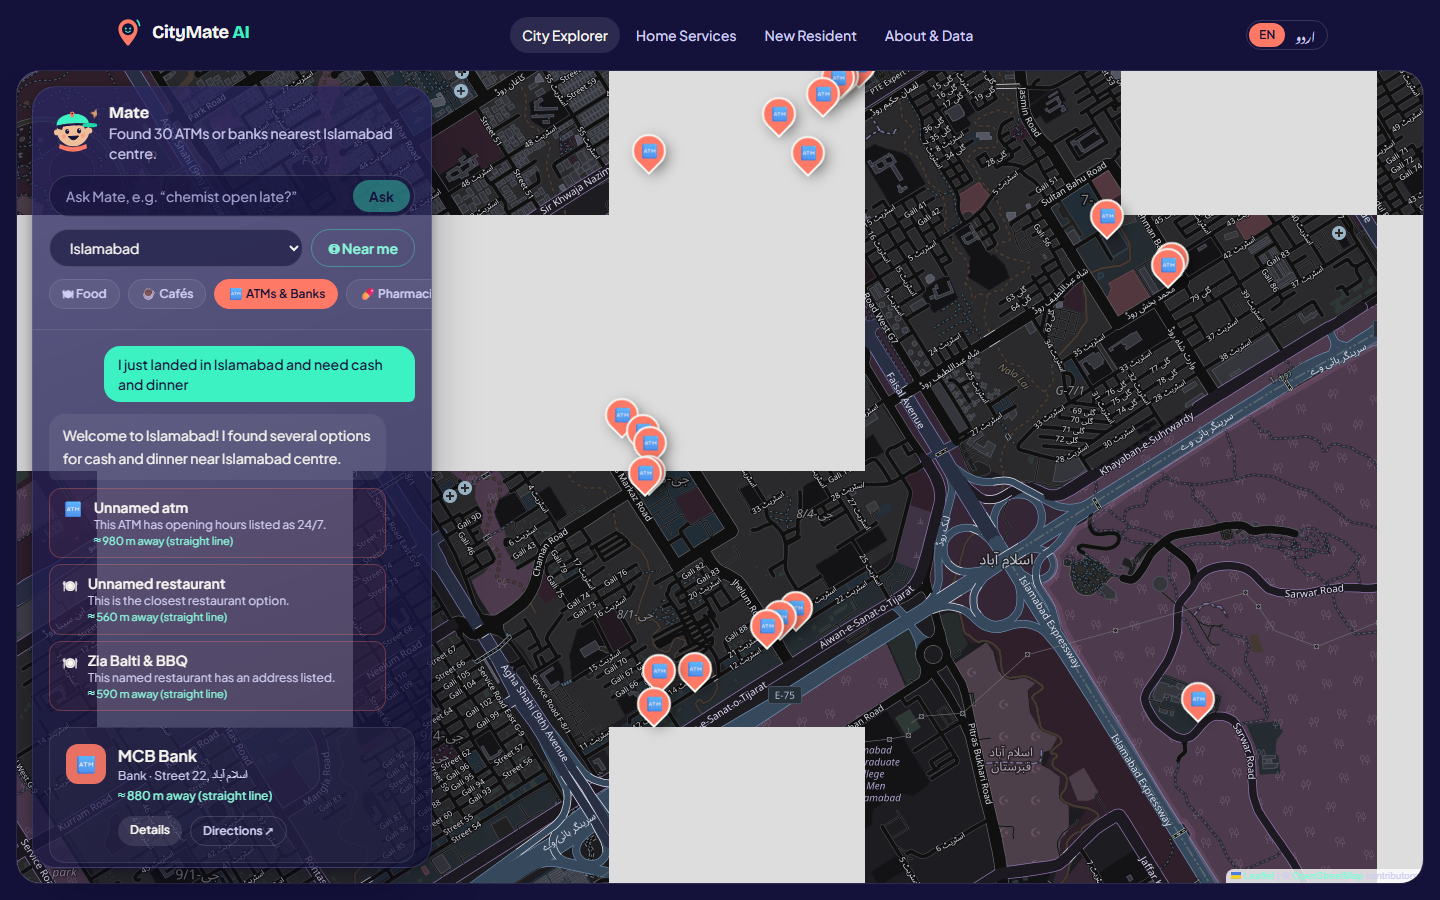
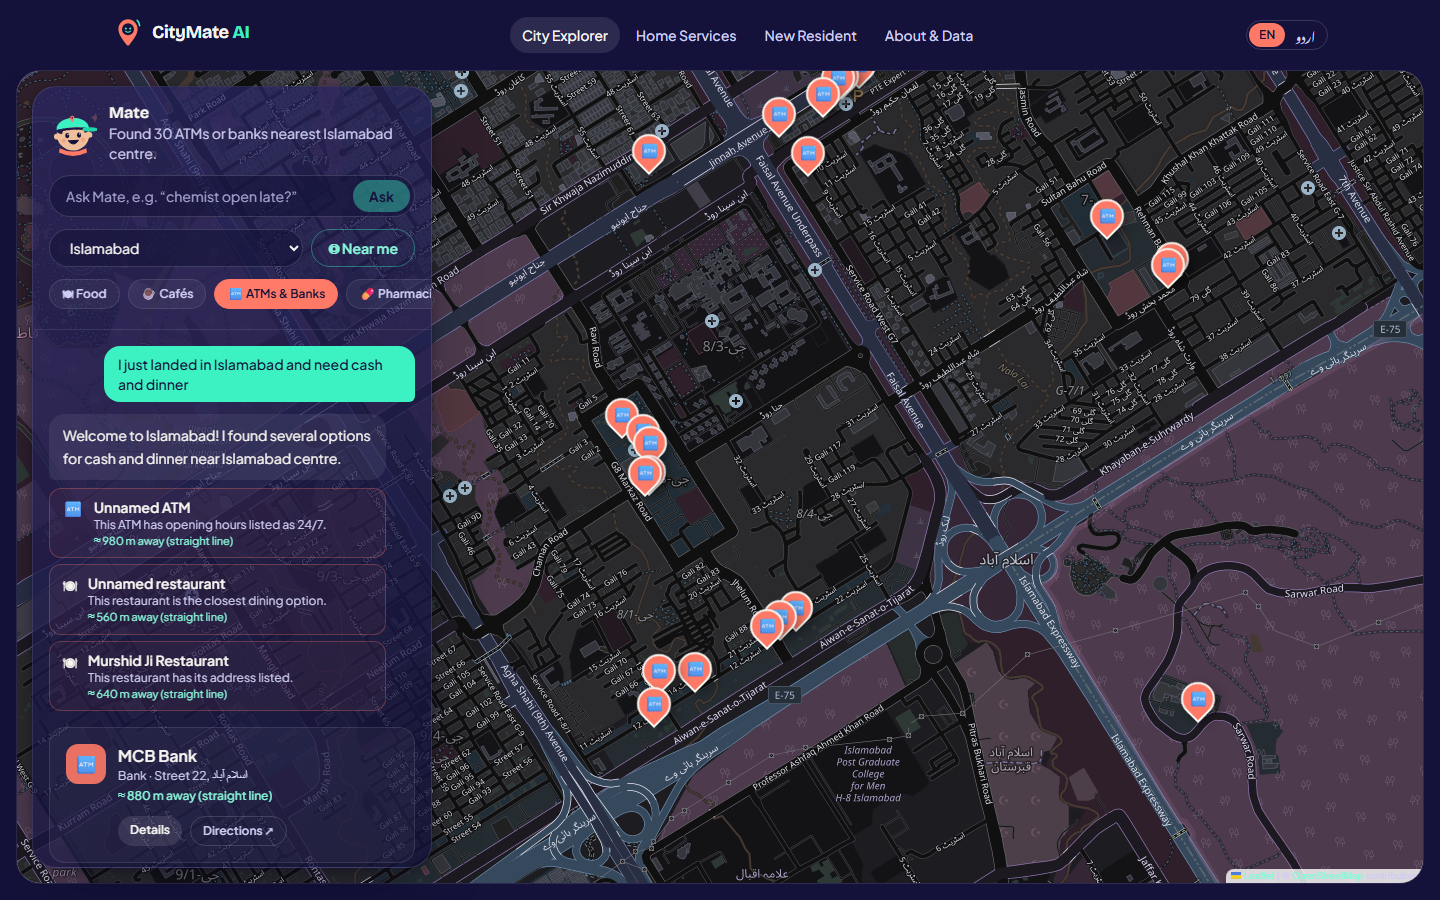
README: problem/solution, stack, setup, AI methodology, model & API usage, screenshots, team contributions

diff --git a/README.md b/README.md
@@ -1,72 +1,189 @@
 # CityMate AI
 
-**Your City. Your Needs. Your AI Companion.**
+**Your City. Your Needs. Your AI Companion.** · آپ کا شہر، آپ کی ضرورت، آپ کا ساتھی
 
-A location-aware AI companion that helps travellers and newcomers find real places and essential services in Pakistani cities (pilots: Islamabad, Rawalpindi, Kotli) using OpenStreetMap data. Non-commercial prototype.
+CityMate AI is an AI daily-life assistant for travellers, visitors and people who have just moved to a new city in Pakistan. It works out what you need, even when you describe a problem in English or Urdu, then finds real nearby places and services from open map data. It is honest about what it doesn't know.
 
-## Stack
+🌐 **Live app:** https://citymate-ai.vercel.app
+🏙 **Pilot cities:** Islamabad · Rawalpindi · Kotli (AJK)
+💸 **Cost to run:** free (Vercel Hobby, Gemini free tier, OpenStreetMap). Non-commercial prototype.
 
-Next.js 16 (App Router) · TypeScript · Tailwind CSS 4 · Motion for React · React-Leaflet · Gemini API (server-side) · OpenStreetMap / Overpass
+![CityMate AI landing page](docs/screenshots/01-landing.png)
 
-## Getting started
+---
 
-Requires Node.js 24 LTS.
+## 1. Problem statement and solution
+
+### The problem
+Arriving in an unfamiliar city, whether as a traveller, a student or a family that has just moved, raises urgent everyday questions:
+
+- *"Where's an ATM and somewhere to eat right now?"*
+- *"My kitchen tap is leaking. Who can fix it?"*
+- *"I've just moved in. Where are the pharmacy, the grocery store and a park for the kids?"*
+
+General map apps expect you to already know **what kind of place** to search for, and they rarely say when their data is missing. Newcomers in Pakistan also often think and type in **Urdu or Roman Urdu**. Listings for local tradespeople such as plumbers and electricians are sparse online, so a naive AI assistant will often **make up** businesses, phone numbers or ratings.
+
+### Our solution
+CityMate AI is a **problem-solving companion, not another map clone**:
+
+| Feature | What it does |
+|---|---|
+| 🧭 **AI City Assistant** | Describe your need in your own words (English, اردو or Roman Urdu). Mate splits it into needs ("cash **and** dinner") and shows real places on a live map. |
+| 🔧 **Home Services** | Problem-based search: "AC stopped cooling" → AC technicians. When no providers are listed, Mate says so and offers **clearly labelled alternatives** (e.g. hardware shops that sell parts), never presented as providers. |
+| 🏡 **New Resident Assistant** | A welcome flow, essentials grouped by *Home setup / Daily essentials / Family*, and a settling-in checklist saved on the device with no account. |
+| 💬 **Ask Mate chatbot** | A floating quick-answer assistant on every page. |
+| 🇵🇰 **Urdu mode** | English by default; one tap switches the experience to Urdu (Nastaliq, right-to-left). Mate replies in the user's language. |
+
+**Core principle: grounded honesty.** Every place shown comes from OpenStreetMap through our own backend. The AI never writes place names, phone numbers, ratings or prices. Missing data is reported as missing, and distances are labelled as approximate straight lines.
+
+---
+
+## 2. Product screenshots
+
+| | |
+|---|---|
+| ![AI chat on the City Explorer](docs/screenshots/03-explorer-ai-chat.png) **AI City Assistant:** one message, two needs (cash and dinner), real places on the map. | ![Home Services with alternatives](docs/screenshots/04-home-services-alternatives.png) **Home Services:** no plumbers are listed, so hardware shops are shown, labelled *"not a confirmed provider"*. |
+| ![New Resident checklist](docs/screenshots/05-new-resident-checklist.png) **New Resident checklist:** progress saved on the device, "Find →" on every task. | ![Urdu mode](docs/screenshots/06-urdu-mode.png) **Urdu mode:** the full landing experience in Urdu Nastaliq. |
+| ![Story landing](docs/screenshots/02-story.png) **Story-driven landing:** *Sara's first night* explains the product chapter by chapter. | <img src="docs/screenshots/07-mobile-explorer.png" alt="Mobile explorer" width="260"> <img src="docs/screenshots/08-mobile-ask-urdu.png" alt="Mobile Urdu ask" width="260"> **Mobile:** map with bottom sheet; asking Mate in Urdu. |
+
+---
+
+## 3. Technology stack
+
+| Layer | Technology |
+|---|---|
+| Framework | **Next.js 16** (App Router, Route Handlers, Turbopack), **React 19**, **TypeScript** |
+| Styling & motion | **Tailwind CSS 4** ("Night City, Warm Guide" design tokens), **Motion for React**, CSS/SVG animation |
+| Maps | **Leaflet** + **React-Leaflet**, OpenStreetMap tiles (night-themed via CSS) |
+| AI | **Google Gemini API**, model `gemini-3.5-flash-lite`, via the official `@google/genai` SDK (server-side only) |
+| Location data | **OpenStreetMap** via the **Overpass API** + pre-built, attributed **City Packs** (JSON snapshots) |
+| Validation | **Zod** (API inputs and AI structured outputs) |
+| Fonts | Bricolage Grotesque, Plus Jakarta Sans, Noto Nastaliq Urdu (self-hosted via `next/font`) |
+| Testing | **Vitest** (60 unit and API tests) + `scripts/smoke.mjs` end-to-end smoke test |
+| Hosting | **Vercel Hobby** (free). No database and no paid services. |
+
+---
+
+## 4. Setup and installation
+
+**Prerequisites:** Node.js **24 LTS**, npm, Git. A free Gemini API key is optional; without it the app runs in AI-off mode.
 
 ```bash
+git clone https://github.com/MuhammadQutab/citymate-ai.git
+cd citymate-ai
 npm install
-cp .env.example .env.local   # add GEMINI_API_KEY (optional; app runs AI-off without it)
-npm run dev                  # http://localhost:3000
+cp .env.example .env.local        # then set GEMINI_API_KEY (free: https://aistudio.google.com/apikey)
+npm run dev                       # http://localhost:3000
 ```
 
 | Script | Purpose |
-| --- | --- |
+|---|---|
 | `npm run dev` | Development server |
-| `npm run build` | Production build |
-| `npm test` | Unit tests (Vitest) |
-| `npm run lint` | ESLint |
-| `npm run typecheck` | Route type generation + `tsc` |
+| `npm run build` / `npm start` | Production build / serve |
+| `npm test` | Unit and API tests (Vitest; no network needed) |
+| `npm run lint` · `npm run typecheck` | ESLint · TypeScript |
+| `npm run citypacks [-- <city>]` | Rebuild City Packs from OpenStreetMap (run monthly at most) |
+| `npm run smoke -- <url> [--ai]` | End-to-end check of all pages and APIs against any deployment |
 
-## Project layout
+**Environment variables**
 
+| Name | Required | Description |
+|---|---|---|
+| `GEMINI_API_KEY` | No | Enables the AI assistant. Without it, deterministic "basic" mode is used. |
+| `GEMINI_MODEL` | No | Overrides the default `gemini-3.5-flash-lite`. |
+
+**Deploy to Vercel:** import the repo, add `GEMINI_API_KEY`, deploy, then run `npm run smoke -- https://<app>.vercel.app --ai`.
+
+---
+
+## 5. AI methodology and implementation
+
+CityMate uses a bounded **Plan → Execute → Narrate** agent ([src/lib/agent/agent.ts](src/lib/agent/agent.ts)). The language model **interprets and explains**; our code **searches**.
+
+```mermaid
+flowchart LR
+  U[User message<br/>EN / اردو / Roman Urdu] --> K{Keyword matcher<br/>free, deterministic}
+  K -- categories found --> E
+  K -- unclear --> P[PLAN · Gemini call 1<br/>structured JSON: intent, categories, city]
+  P --> E[EXECUTE · our backend<br/>City Packs / Overpass search]
+  E --> A[Alternatives if providers are scarce<br/>e.g. hardware shops for plumbers]
+  A --> N[NARRATE · Gemini call 2<br/>sees only anonymised refs P1…Pn]
+  N --> V[Validate refs · strip claims<br/>'verified', 'trusted', 'best'…]
+  V --> R[Reply + verified picks + map]
 ```
-src/app/              routes: / , /explore , /place/[id] , /about
-src/components/       brand/ landing/ layout/ mate/ ui/
-src/lib/places/       category taxonomy, place types & providers
-src/lib/geo/          straight-line distance helpers
-src/lib/motion.ts     shared animation language
-```
 
-## Data & attribution
+1. **Plan:** a free keyword matcher with English, Urdu-script and Roman-Urdu vocabulary (e.g. *nalka → plumber*, *dawai → pharmacy*) handles clear requests with **no model call**. Indirect problems ("water dripping from the ceiling") go to Gemini, which may only choose from our fixed **24-category taxonomy** ([src/lib/places/categories.ts](src/lib/places/categories.ts)).
+2. **Execute:** our server searches real data. Supported cities use **City Packs**, and elsewhere a radius-bounded **Overpass** query runs. When real providers are scarce, related categories are added as **clearly labelled alternatives**.
+3. **Narrate:** Gemini receives the verified results as anonymous references (`P1`, `P2`…) with only the facts we hold. It may not write names, addresses, phone numbers or distances in its reply; the UI renders those from verified data. Picks referring to unknown references are discarded.
+4. **Guardrails:**
+   - A deterministic filter removes endorsement words such as *verified, trusted, best* (and Urdu equivalents like *تصدیق شدہ*, *بہترین*), while keeping negations such as "not verified".
+   - The agent is tested against prompt injection; for example, "invent five-star hotels" returns only real hotels.
+5. **Language:** the reply language is detected from the script or chosen in the UI. Prompts instruct natural Urdu (not Roman Urdu) when needed.
+6. **Graceful degradation:** with no key, a quota limit (429), a timeout or invalid output, Mate switches instantly to a deterministic "basic" mode in the same language with an honest notice. A 60-second circuit breaker avoids hammering the API.
 
-Map data © [OpenStreetMap contributors](https://www.openstreetmap.org/copyright), ODbL. City illustrations are original and decorative and do not depict real locations.
+---
 
-## HTTP API (shared by web and future mobile apps)
+## 6. AI model names and API usage
 
-All responses are JSON. Errors: `{ error, message, issues? }` with 400 / 500 / 503.
+| Item | Detail |
+|---|---|
+| **Model** | `gemini-3.5-flash-lite` (Google Gemini, free tier). Configurable via `GEMINI_MODEL`. |
+| **SDK** | `@google/genai` → `ai.models.generateContent()` |
+| **Where it runs** | Server only (`/api/chat` Route Handler). The API key is never sent to the browser. |
+| **Output format** | `responseMimeType: "application/json"` + `responseJsonSchema` generated from Zod schemas, then re-validated with Zod |
+| **Settings** | `temperature: 0.3`, `thinkingLevel: MINIMAL` (low latency), `maxOutputTokens` 200 (plan) / 350 (narrate), 18 s timeout per call |
+| **Calls per message** | **0–2** (0 when the answer is cached; the planner is skipped when keywords match) |
+| **Quota protection** | Per-instance answer cache for identical context-free questions, per-client rate limits (~10 chats/min), cross-origin request blocking, 60 s cooldown after quota errors |
+| **Typical latency** | 1–3 s end to end |
+
+**Other APIs used**
+
+| API | Use |
+|---|---|
+| **OpenStreetMap Overpass API** | Building City Packs; live searches outside pilot cities (with failover across 3 public instances, caching and fail-fast) |
+| **OpenStreetMap tile server** | Map imagery (with attribution) |
+| **Browser Geolocation API** | Opt-in "Near me". Coordinates are rounded and never stored. |
+
+**CityMate's own HTTP API** (shared by the web app and future mobile apps; documented in code):
 
 | Endpoint | Purpose |
-| --- | --- |
+|---|---|
 | `GET /api/categories` | Taxonomy (groups, 24 categories, alternatives) and supported cities |
 | `GET /api/places?category=&city=\|lat=&lon=[&limit][&wide=1]` | Nearest real places for one category |
-| `GET /api/services?category=…` | As above, plus clearly-labelled `alternatives` when providers are scarce |
-| `POST /api/chat` `{ message, history?, city?, near?, lastCategories? }` | AI City Assistant (Plan → Execute → Narrate, ≤2 model calls) |
+| `GET /api/services?category=…` | Places plus clearly labelled `alternatives` when providers are scarce |
+| `POST /api/chat` `{ message, history?, city?, near?, lang? }` | AI City Assistant (Plan → Execute → Narrate) |
 
-Business logic lives in `src/lib` (`places/`, `agent/`, `resident/`, `api/`); UI in `src/components`. Add a category by editing `src/lib/places/categories.ts`, then run `npm run citypacks`.
+Errors always use `{ error, message, issues? }` with 400 / 403 / 429 / 503 status codes.
 
-## Reliability & safety (free-tier friendly)
+---
 
-- **Bounded AI:** ≤2 Gemini calls per message; keyword pre-check skips the planner; identical context-free questions are answered from cache.
-- **Graceful degradation:** quota (429), timeouts or no key → instant "basic" mode with an honest notice; a 60 s cooldown avoids hammering the API.
-- **Open data:** City Packs serve Islamabad/Rawalpindi/Kotli without network calls; live Overpass results are cached and fail fast during outages, falling back to the nearest pack.
-- **Abuse protection:** per-client rate limits (chat ≈10/min, search ≈1/s) and same-origin checks on chat. These are per-instance and best-effort on serverless; the bounded work above is what keeps costs safe.
-- **Hardening:** zod-validated inputs, CSP and security headers, no secrets in the client, no personal data stored server-side.
+## 7. Team member contributions
 
-Run `npm test` (unit + API tests) and `npm run smoke -- <url> [--ai]` (end-to-end) before every deploy.
+| Member | Role | Contributions |
+|---|---|---|
+| **Muhammad Qutab** ([@MuhammadQutab](https://github.com/MuhammadQutab)) | Solo developer & product owner | Product vision and problem definition; feature requirements (AI City Assistant, Home Services, New Resident Assistant, Urdu experience); creative direction ("Night City, Warm Guide", Mate companion, story landing); testing and acceptance of every phase; deployment. |
 
-## Deploying to Vercel (Hobby, free)
+**AI-assisted development:** the codebase was built with **Claude Code** as a pair-programming assistant, directed and reviewed by Muhammad Qutab phase by phase.
 
-1. Import this GitHub repository in Vercel (framework: Next.js; defaults are correct).
-2. Add the environment variable `GEMINI_API_KEY` (Production and Preview). Optional: `GEMINI_MODEL`.
-3. Deploy, then run `npm run smoke -- https://<your-app>.vercel.app --ai`.
+---
 
-Notes: Node 24 (`engines`), no database, no paid services. City Packs ship inside the build. `/api/chat` allows up to 60 s (two bounded model calls). Refresh City Packs with `npm run citypacks` and redeploy (monthly is plenty).
+## Project structure
+
+```
+src/app/                 pages (/, /explore, /services, /new-resident, /place/[id], /about) + API routes
+src/components/          UI: landing/, explore/, services/, resident/, chat/, map/, mate/, places/, layout/
+src/content/landing.ts   English + Urdu copy for the landing experience
+src/lib/agent/           Gemini client, Plan → Execute → Narrate agent, request/response types
+src/lib/places/          taxonomy, cities, normalisation, providers (City Pack / Overpass), search service
+src/lib/server/guards.ts rate limiter, TTL cache, circuit breaker
+src/data/citypacks/      attributed OpenStreetMap snapshots
+scripts/                 City Pack builder, smoke test
+```
+
+## Data, privacy & limitations
+
+- Map data © [OpenStreetMap contributors](https://www.openstreetmap.org/copyright), ODbL. Coverage varies: Islamabad has 3,215 mapped places, Rawalpindi 1,463 and Kotli 11. Few tradespeople are listed anywhere, which is why alternatives exist.
+- Opening hours and phone numbers are listed for only around 5% of places, and may be outdated.
+- There are no accounts and no server-side storage of locations or chats. Checklist and language preferences stay in the browser.
+- Rate limits are per serverless instance (best-effort). The hard safety comes from bounded AI usage and graceful fallbacks.
+- City illustrations and the Mate character are original artwork. They are decorative and do not depict real locations.
